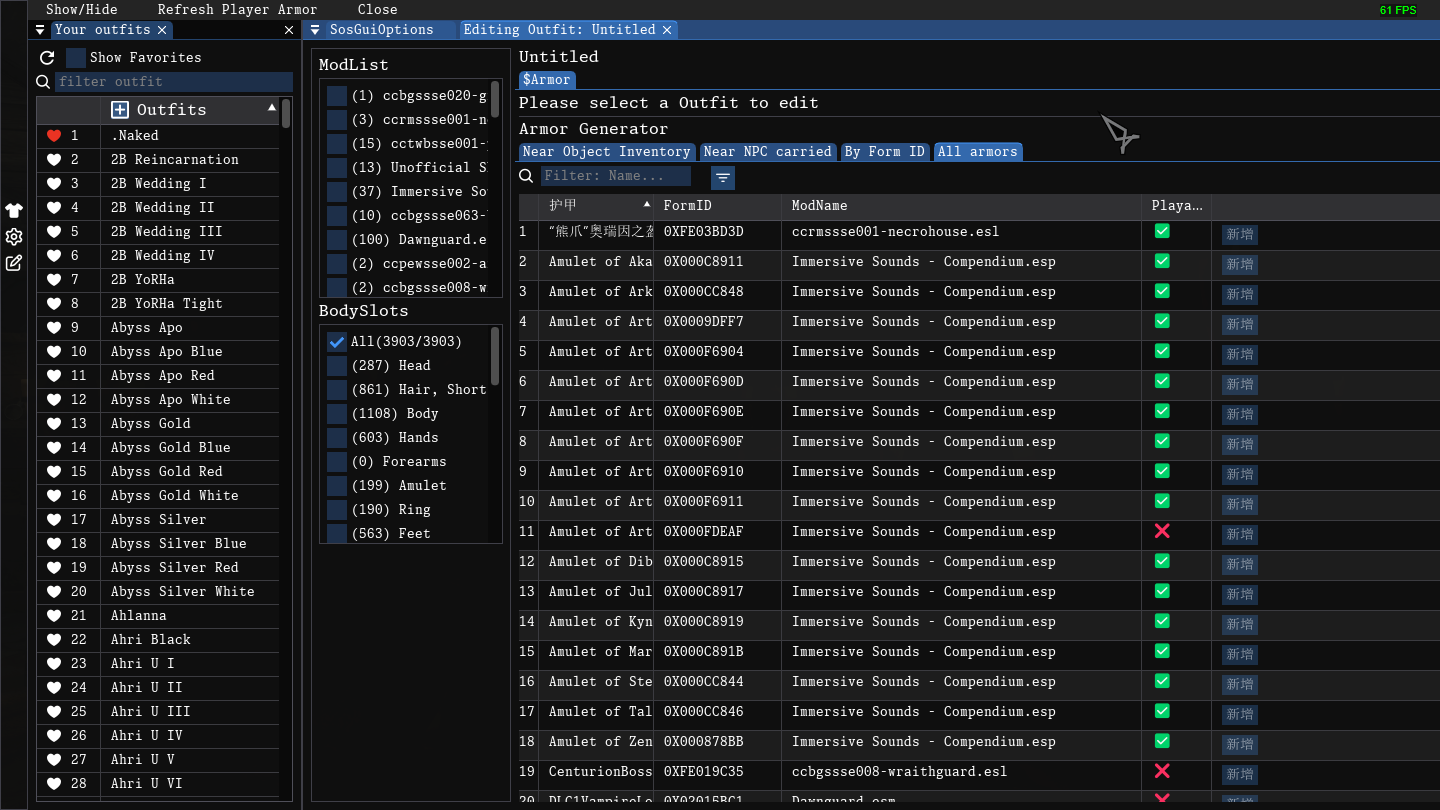
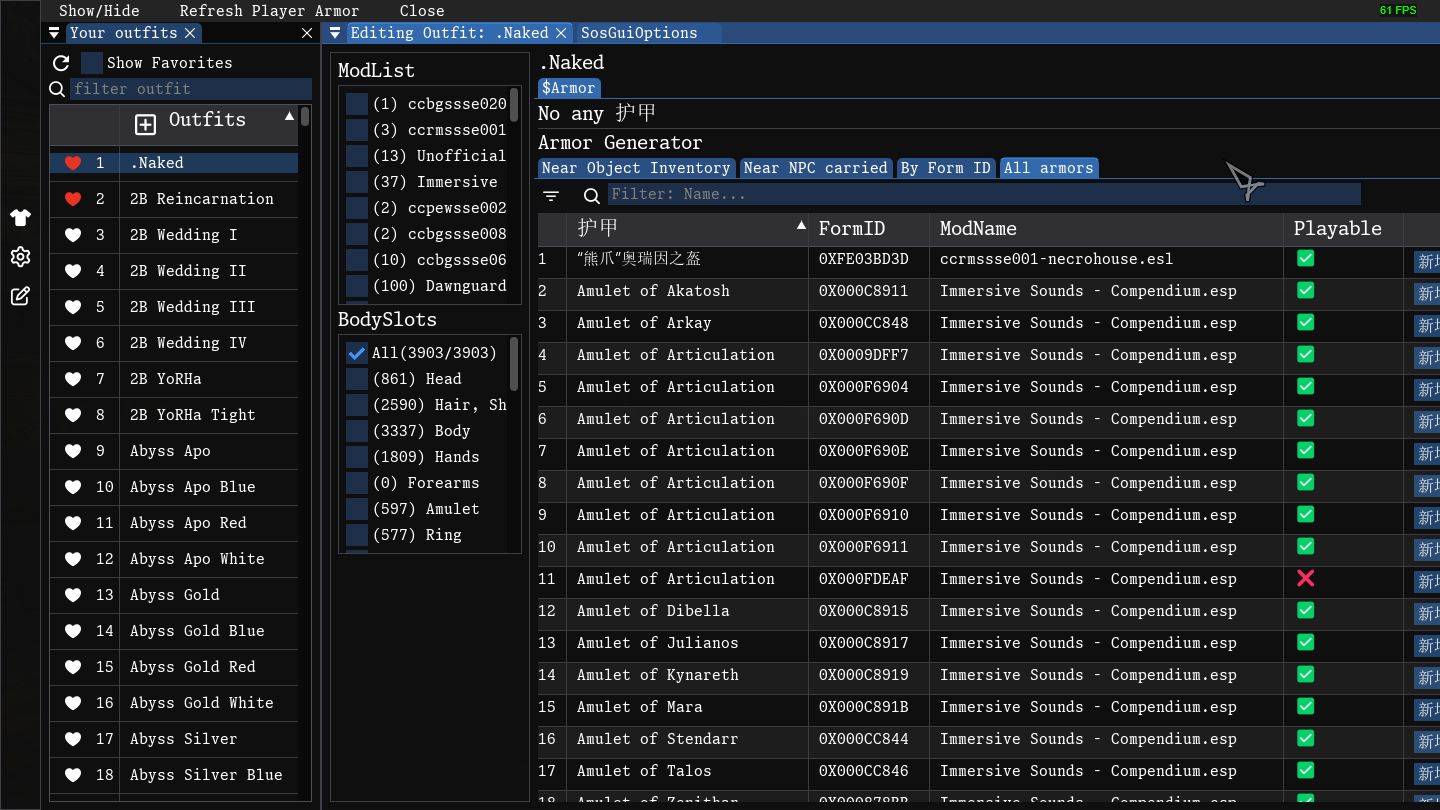
SosGui: * scale table header font size; * Add StyleVar, StyleColor to `ImGuiScope`

Changed region(s): [[0.0, 0.0, 1.0, 1.0], [0.7188, 0.9877, 0.75, 1.0], [0.6562, 0.9877, 0.6875, 1.0]]

diff --git a/src/gui/OutfitEditPanel.cpp b/src/gui/OutfitEditPanel.cpp
@@ -4,7 +4,7 @@
 #include "Translation.h"
 #include "common/config.h"
 #include "common/imgui/ImGuiFlags.h"
-#include "common/imgui/ImGuiScop.h"
+#include "common/imgui/ImGuiScope.h"
 #include "data/ArmorGenerator.h"
 #include "data/SosUiData.h"
 #include "data/SosUiOutfit.h"
@@ -146,7 +146,7 @@ void OutfitEditPanel::DrawOutfitPanel(Context &context, const EditingOutfit &edi
     ImGuiUtil::TextScale(editingOutfit.GetName().c_str(), Setting::UiSetting::FONT_SIZE_TITLE_3);
     if (auto tabBar = ImGuiScope::TabBar("##OutfitTabBarView"))
     {
-        if (auto tabItem = ImGuiScope::TabItem("$Armor", nullptr, ImGuiTabItemFlags_Leading))
+        if (auto tabItem = ImGuiScope::TabItem("$Armor"_T.c_str(), nullptr, ImGuiTabItemFlags_Leading))
         {
             DrawOutfitArmors(context, editingOutfit);
         }
@@ -415,19 +415,16 @@ void OutfitEditPanel::DrawArmorGeneratorTabBar(const SosUiOutfit *editingOutfit)
 
 void OutfitEditPanel::DrawArmorViewFilter(const SosUiOutfit *editingOutfit)
 {
-    if (m_armorView.armorFilter.Draw())
     {
-        m_armorView.armorFilter.dirty = false;
-        m_armorView.update_view_data(GetGenerator(), editingOutfit);
+        auto framePadding = ImGuiScope::StyleVar::FramePadding({5.0f, 5.0f});
+        auto buttonColor  = ImGuiScope::StyleColor::Button(ImVec4(0, 0, 0, 0));
+        if (ImGui::Button(NF_OCT_FILTER))
+        {
+            ImGui::OpenPopup("Filters");
+        }
+        ImGui::SetItemTooltip("%s", "$SosGui_Filterers"_T.c_str());
     }
-    ImGui::SameLine(0, 20);
-    ImGui::PushStyleVar(ImGuiStyleVar_FramePadding, {5.0f, 5.0f});
-    if (ImGui::Button(NF_OCT_FILTER))
-    {
-        ImGui::OpenPopup("Filters");
-        ImGui::SetNextWindowPos({ImGui::GetItemRectMin().x, ImGui::GetItemRectMax().x});
-    }
-    ImGui::PopStyleVar();
+    ImGui::SetNextWindowPos({ImGui::GetItemRectMin().x, ImGui::GetItemRectMax().y});
     if (auto popup = ImGuiScope::Popup("Filters"))
     {
         bool needUpdate =
@@ -439,6 +436,13 @@ void OutfitEditPanel::DrawArmorViewFilter(const SosUiOutfit *editingOutfit)
         {
             m_armorView.update_view_data(GetGenerator(), editingOutfit);
         }
+    }
+
+    ImGui::SameLine(0, 20);
+    if (m_armorView.armorFilter.Draw())
+    {
+        m_armorView.armorFilter.dirty = false;
+        m_armorView.update_view_data(GetGenerator(), editingOutfit);
     }
 }
 
@@ -458,12 +462,11 @@ void OutfitEditPanel::DrawArmorView(Context &context, const EditingOutfit &editi
                                .Hideable()
                                .Reorderable()
                                .flags;
-    ImGui::PushStyleVar(ImGuiStyleVar_CellPadding, ImVec2(10, 5));
+    auto framePadding = ImGuiScope::StyleVar::FramePadding(Setting::UiSetting::TABLE_ROW_PADDING);
     if (const auto armorViewTable = ImGuiScope::Table("##ArmorCandidates", 6, flags))
     {
         DrawArmorViewContent(context, editingOutfit, m_armorView.ViewData());
     }
-    ImGui::PopStyleVar();
 }
 
 void OutfitEditPanel::DrawArmorViewContent(
@@ -473,14 +476,20 @@ void OutfitEditPanel::DrawArmorViewContent(
     using namespace ImGuiUtil;
     ImGui::TableSetupScrollFreeze(1, 1);
     // clang-format off
-    TableHeadersBuilder().Column("##Number").Flags(TableColumnFlags().NoSort())
+    TableHeadersBuilder().Column("##Number").Flags(TableColumnFlags().NoSort().WidthFixed())
         .Column("$ARMOR").Flags(TableColumnFlags().DefaultSort().NoHide())
         .Column("FormID").Flags(TableColumnFlags().NoSort())
         .Column("ModName").Flags(TableColumnFlags().NoSort())
         .Column("Playable").Flags(TableColumnFlags().NoSort())
-        .Column("$Add").Flags(TableColumnFlags().WidthFixed().NoSort())
-        .CommitHeadersRow();
+        .Column("$Add").Flags(TableColumnFlags().WidthFixed().NoSort());
     // clang-format on
+    ImGui::TableNextRow(ImGuiTableRowFlags_Headers);
+    for (int colIndex = 0; colIndex < 6; ++colIndex)
+    {
+        ImGui::TableSetColumnIndex(colIndex);
+        ImGuiScope::FontSize fontSize(Setting::UiSetting::FONT_SIZE_TITLE_3);
+        ImGui::TableHeader(ImGui::TableGetColumnName(colIndex));
+    }
 
     std::function<void()> onRequireAddArmor = [] {};
 

diff --git a/src/gui/OutfitListTable.cpp b/src/gui/OutfitListTable.cpp
@@ -3,7 +3,7 @@
 #include "Translation.h"
 #include "common/config.h"
 #include "common/imgui/ImGuiFlags.h"
-#include "common/imgui/ImGuiScop.h"
+#include "common/imgui/ImGuiScope.h"
 #include "data/OutfitList.h"
 #include "data/SosUiData.h"
 #include "data/SosUiOutfit.h"
@@ -248,19 +248,21 @@ void OutfitListTable::DrawOutfitTableContent(Context &context, RE::Actor *editin
     ImGui::TableHeader(ImGui::TableGetColumnName(0));
 
     ImGui::TableNextColumn();
-    ImGui::PushFontSize(Setting::UiSetting::FONT_SIZE_TITLE_3);
-    ImGui::PushStyleVar(ImGuiStyleVar_FramePadding, ImVec2(0, 0));
-    ImGui::PushFont(Context::GetInstance().GetIconFont());
-    if (ImGui::Button(NF_OCT_DIFF_ADDED))
     {
-        context.popupList.push_back(std::make_unique<CreateOutfitPopup>());
+        auto fontSize     = ImGuiScope::FontSize(Setting::UiSetting::FONT_SIZE_TITLE_3);
+        auto framePadding = ImGuiScope::StyleVar::FramePadding({0, 0});
+        {
+            auto buttonColor = ImGuiScope::StyleColor::Button(ImVec4(0, 0, 0, 0));
+            auto iconFont    = ImGuiScope::Font(Context::GetInstance().GetIconFont());
+            if (ImGui::Button(NF_OCT_DIFF_ADDED))
+            {
+                context.popupList.push_back(std::make_unique<CreateOutfitPopup>());
+            }
+        }
+        ImGui::SetItemTooltip("%s", "$SosGui_CreateOutfit"_T.c_str());
+        ImGui::SameLine();
+        ImGui::TableHeader(ImGui::TableGetColumnName(1));
     }
-    ImGui::PopFont();
-    ImGui::PopStyleVar();
-    ImGui::SetItemTooltip("%s", "$SosGui_CreateOutfit"_T.c_str());
-    ImGui::SameLine();
-    ImGui::TableHeader(ImGui::TableGetColumnName(1));
-    ImGui::PopFontSize();
 
     static bool ascend = true;
     ImGuiUtil::may_update_table_sort_dir(ascend);
@@ -270,10 +272,10 @@ void OutfitListTable::DrawOutfitTableContent(Context &context, RE::Actor *editin
         ImGui::TableNextRow();
         ImGui::TableNextColumn(); // number column
         {
-            ImGui::PushStyleVar(ImGuiStyleVar_FramePadding, ImVec2(0, 0));
-            ImGui::PushStyleColor(ImGuiCol_Button, {0, 0, 0, 0});
-            ImGui::PushFont(Context::GetInstance().GetIconFont());
-            bool clicked = false;
+            auto framePadding = ImGuiScope::StyleVar::FramePadding(Setting::UiSetting::ICON_PADDING);
+            auto buttonColor  = ImGuiScope::StyleColor::Button(ImVec4(0, 0, 0, 0));
+            auto iconFont     = ImGuiScope::Font(Context::GetInstance().GetIconFont());
+            bool clicked      = false;
             if (outfit.IsFavorite())
             {
                 ImGui::PushStyleColor(ImGuiCol_Text, ImGui::ColorConvertFloat4ToU32(ImColor(234, 51, 35)));
@@ -293,9 +295,6 @@ void OutfitListTable::DrawOutfitTableContent(Context &context, RE::Actor *editin
                 };
             }
 
-            ImGui::PopFont();
-            ImGui::PopStyleColor();
-            ImGui::PopStyleVar();
             ImGui::SameLine(0, 10);
             ImGui::Text("%zu", index + 1);
         }
@@ -356,6 +355,7 @@ void OutfitListTable::DrawOutfitTableContent(Context &context, RE::Actor *editin
         }
     };
 
+    auto framePadding = ImGuiScope::StyleVar::FramePadding(Setting::UiSetting::TABLE_ROW_PADDING);
     DrawOutfitTableContent(m_outfitFilterInput.viewData, ascend, drawOutfitEntry);
 }
 

diff --git a/include/gui/UiSetting.h b/include/gui/UiSetting.h
@@ -13,16 +13,18 @@ namespace Setting
 {
 struct UiSetting
 {
-    static constexpr std::string_view SETTING_NAME         = "UiSetting";
-    static constexpr float            FONT_SCALE_MIN       = 0.5F;
-    static constexpr float            FONT_SCALE_MAX       = 5.0F;
-    static constexpr float            FONT_SIZE_TEXT_SMALL = 12.0F;
-    static constexpr float            FONT_SIZE_TEXT       = 14.0F;
-    static constexpr float            FONT_SIZE_TITLE_1    = 36.0F;
-    static constexpr float            FONT_SIZE_TITLE_2    = 24.0F;
-    static constexpr float            FONT_SIZE_TITLE_3    = 18.0F;
-    static constexpr float            FONT_SIZE_TITLE_4    = 16.0F;
-    static constexpr const char      *ICON_FONT            = "SymbolsNerdFontMono-Regular.ttf";
+    static constexpr std::string_view     SETTING_NAME         = "UiSetting";
+    static constexpr float                FONT_SCALE_MIN       = 0.5F;
+    static constexpr float                FONT_SCALE_MAX       = 5.0F;
+    static constexpr float                FONT_SIZE_TEXT_SMALL = 12.0F;
+    static constexpr float                FONT_SIZE_TEXT       = 14.0F;
+    static constexpr float                FONT_SIZE_TITLE_1    = 36.0F;
+    static constexpr float                FONT_SIZE_TITLE_2    = 24.0F;
+    static constexpr float                FONT_SIZE_TITLE_3    = 18.0F;
+    static constexpr float                FONT_SIZE_TITLE_4    = 16.0F;
+    static constexpr std::array<float, 2> ICON_PADDING         = {5.0F, 5.0F};
+    static constexpr std::array<float, 2> TABLE_ROW_PADDING    = {3.0F, 3.0F};
+    static constexpr const char          *ICON_FONT            = "SymbolsNerdFontMono-Regular.ttf";
 
     enum DefaultThemeIndex
     {

diff --git a/src/SosGui.cpp b/src/SosGui.cpp
@@ -2,7 +2,7 @@
 
 #include "common/config.h"
 #include "common/imgui/ImGuiFlags.h"
-#include "common/imgui/ImGuiScop.h"
+#include "common/imgui/ImGuiScope.h"
 #include "common/imgui/ImThemeLoader.h"
 #include "common/log.h"
 #include "gui/Table.h"
@@ -279,10 +279,10 @@ auto SosGui::DrawSidebar() -> float
     {
         width = ImGui::GetWindowWidth();
         ImGui::SetCursorPosY(offsetY);
-        ImGuiScope::FontSize fontSize(Setting::UiSetting::FONT_SIZE_TITLE_3);
-        ImGui::PushStyleColor(ImGuiCol_Button, ImVec4(0, 0, 0, 0));
-        ImGui::PushStyleVar(ImGuiStyleVar_FramePadding, {0, 0});
-        constexpr auto IconButton = [](const char *iconClass, const char *tooltip) {
+        auto           framePadding = ImGuiScope::StyleVar::FramePadding(Setting::UiSetting::ICON_PADDING);
+        auto           buttonColor  = ImGuiScope::StyleColor::Button(ImVec4(0, 0, 0, 0));
+        auto           fontSize     = ImGuiScope::FontSize(Setting::UiSetting::FONT_SIZE_TITLE_3);
+        constexpr auto IconButton   = [](const char *iconClass, const char *tooltip) {
             ImGui::PushFont(Context::GetInstance().GetIconFont());
             auto isClick = ImGui::Button(iconClass);
             ImGui::PopFont();
@@ -305,8 +305,6 @@ auto SosGui::DrawSidebar() -> float
         {
             m_outfitEditPanel.ToggleShow();
         }
-        ImGui::PopStyleVar();
-        ImGui::PopStyleColor();
     }
     ImGui::End();
     ImGui::PopStyleVar();

diff --git a/src/gui/SosGuiCharacters.cpp b/src/gui/SosGuiCharacters.cpp
@@ -5,7 +5,7 @@
 #include "autoswitch/ActorPolicyContainer.h"
 #include "common/config.h"
 #include "common/imgui/ImGuiFlags.h"
-#include "common/imgui/ImGuiScop.h"
+#include "common/imgui/ImGuiScope.h"
 #include "data/OutfitList.h"
 #include "data/SosUiData.h"
 #include "data/SosUiOutfit.h"

diff --git a/include/autoswitch/ActorPolicyView.cpp b/include/autoswitch/ActorPolicyView.cpp
@@ -5,7 +5,7 @@
 #include "autoswitch/ActorPolicyView.h"
 
 #include "common/imgui/ImGuiFlags.h"
-#include "common/imgui/ImGuiScop.h"
+#include "common/imgui/ImGuiScope.h"
 #include "data/SosUiData.h"
 #include "gui/Table.h"
 #include "service/SosDataCoordinator.h"

diff --git a/src/gui/OutfitSelectPopup.cpp b/src/gui/OutfitSelectPopup.cpp
@@ -3,7 +3,7 @@
 //
 #include "gui/OutfitSelectPopup.h"
 
-#include "common/imgui/ImGuiScop.h"
+#include "common/imgui/ImGuiScope.h"
 #include "data/OutfitList.h"
 #include "gui/icon.h"
 

diff --git a/src/gui/widgets.cpp b/src/gui/widgets.cpp
@@ -4,7 +4,7 @@
 #include "gui/widgets.h"
 
 #include "common/imgui/ImGuiFlags.h"
-#include "common/imgui/ImGuiScop.h"
+#include "common/imgui/ImGuiScope.h"
 
 #include <vector>
 

diff --git a/ChangeLogs.md b/ChangeLogs.md
@@ -41,3 +41,5 @@
 - [x] [[improvement]] search icon for all search input widgets;
 - [x] [[improvement]] Add filters icon:
 	- Click will open a popup: show all filters checkbox
+- [ ] [[improvement]] Bold font: bold font for table header;
+- [ ] [[improvement]] Move font scale, Theme config to Settings menu item;
